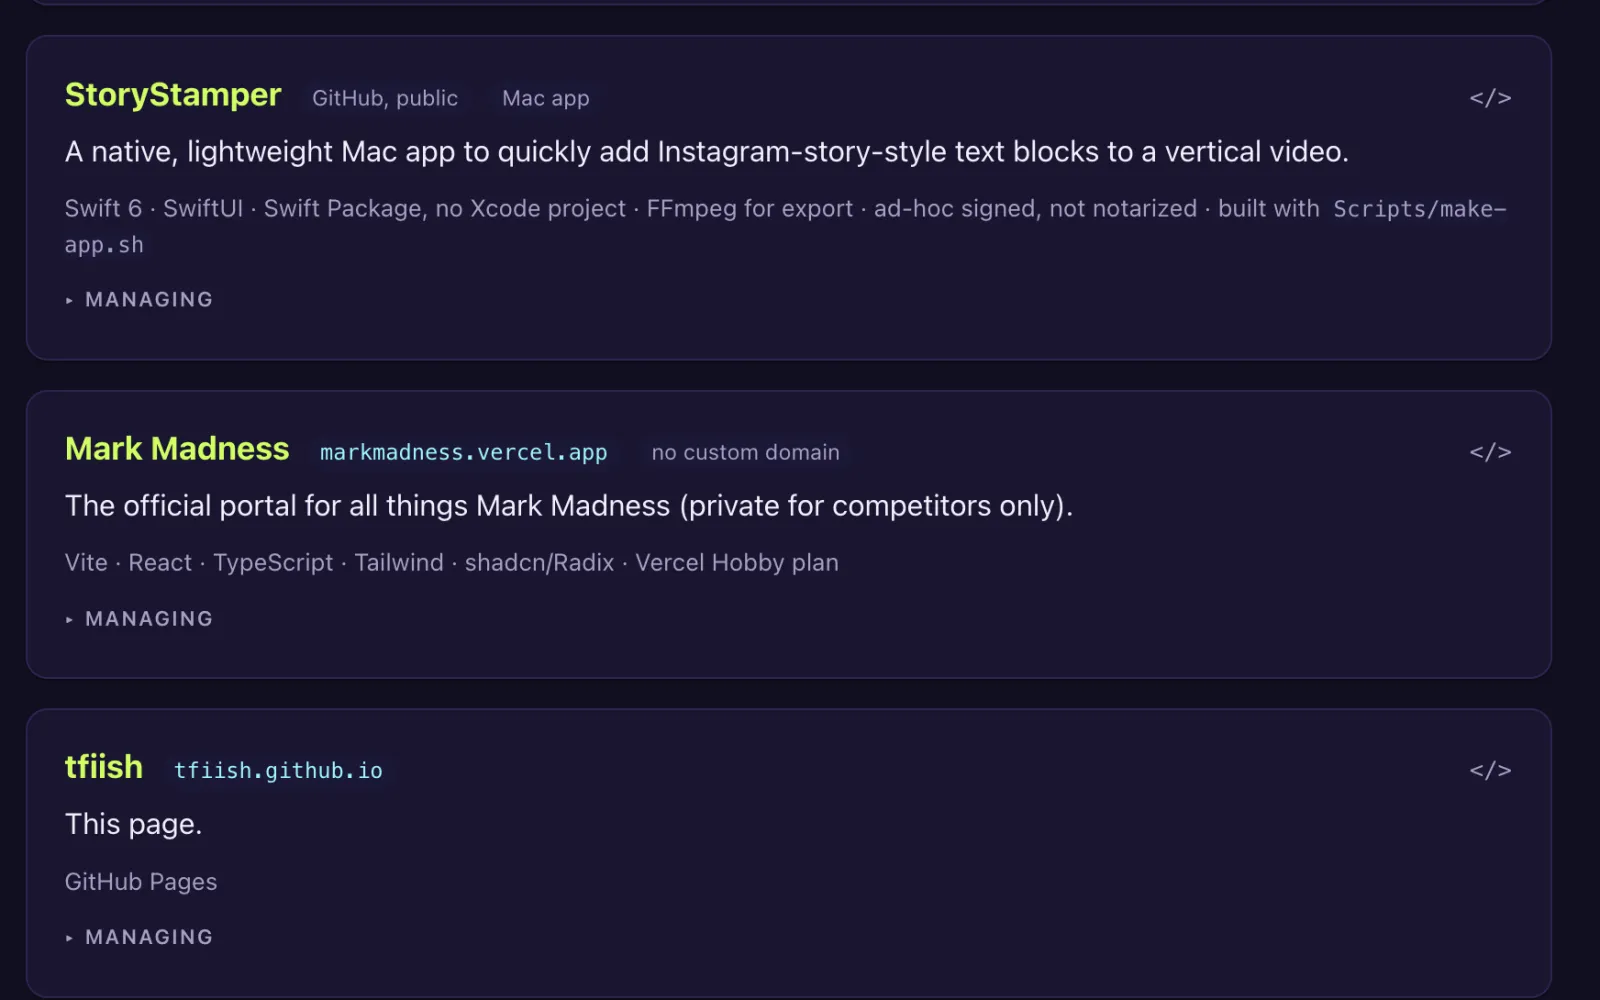
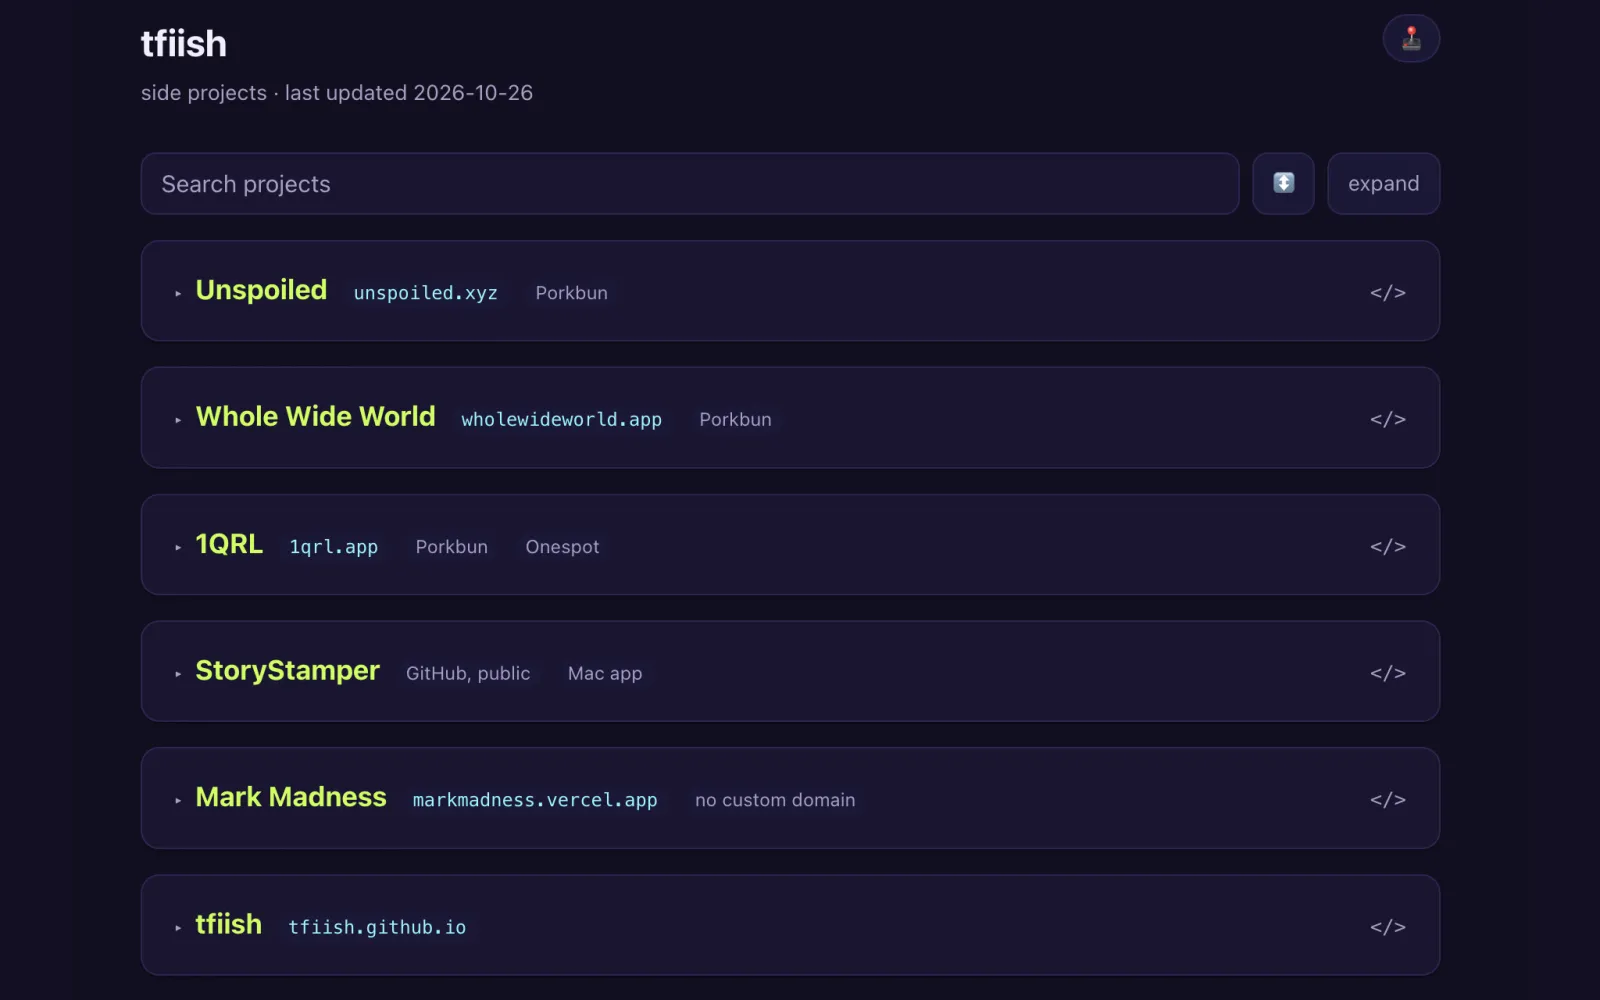
Fold all cards from the toolbar, cap screenshots at 26rem, and refresh shots for Whole Wide World, StoryStamper, and tfiish

diff --git a/index.html b/index.html
@@ -121,7 +121,7 @@
     #search:focus { outline: none; border-color: var(--accent); }
     #search::placeholder { color: var(--muted); }
     #sort,
-    #notes {
+    #expand {
       font: inherit;
       font-size: .85rem;
       color: var(--muted);
@@ -132,10 +132,10 @@
       cursor: pointer;
       white-space: nowrap;
     }
-    #sort:hover, #notes:hover { color: var(--fg); border-color: var(--accent); }
+    #sort:hover, #expand:hover { color: var(--fg); border-color: var(--accent); }
     :root[data-theme="terminal"] #search,
     :root[data-theme="terminal"] #sort,
-    :root[data-theme="terminal"] #notes { border-radius: 2px; }
+    :root[data-theme="terminal"] #expand { border-radius: 2px; }
     .empty { color: var(--muted); margin: 0 0 1rem; }
     .cards {
       display: grid;
@@ -214,9 +214,10 @@
       line-height: 1.5;
       color: var(--muted);
     }
-    /* Screenshots are 16:10; one of another shape is cropped to fit, keeping its top.
-       Two or more in a card make a carousel: the strip scrolls sideways (swipe, or a
-       trackpad), and the script below adds arrows and dots. */
+    /* Screenshots are 16:10 and at most 26rem wide; one of another shape is cropped to
+       fit, keeping its top. Two or more in a card make a carousel: the strip scrolls
+       sideways (swipe, or a trackpad), and the script below adds arrows and dots. */
+    .shots, .carousel, .dots { max-width: 26rem; }
     .shots {
       display: flex;
       overflow-x: auto;
@@ -327,7 +328,7 @@
     <div class="toolbar">
       <input id="search" type="search" placeholder="Search projects" aria-label="Search projects" autocomplete="off">
       <button id="sort" type="button" aria-label="Change sort order">&#8597;&#65039;</button>
-      <button id="notes" type="button" aria-label="Expand or collapse all managing notes">expand</button>
+      <button id="expand" type="button" aria-label="Expand or collapse all cards">collapse</button>
     </div>
     <p id="empty" class="empty" hidden>No projects match.</p>
 
@@ -379,7 +380,9 @@
         <div class="body">
           <p class="blurb">A mobile-first web app that uses spaced repetition to teach where every country, state, and province is, on a globe you can spin and zoom.</p>
           <div class="shots">
-            <img src="img/wholewideworld.webp" width="1600" height="1000" alt="Whole Wide World's home screen: the globe colored by progress, and the day's due count" loading="lazy">
+            <img src="img/wholewideworld.webp" width="1600" height="1000" alt="Whole Wide World's home screen in its light theme, with the globe and the current deck" loading="lazy">
+            <img src="img/wholewideworld-decks.webp" width="1600" height="1000" alt="Whole Wide World's Decks list, with progress and what's due" loading="lazy">
+            <img src="img/wholewideworld-locate.webp" width="1600" height="1000" alt="A Locate question in Whole Wide World, with a dotted line from a missed guess to the answer" loading="lazy">
           </div>
           <p class="stack">Vite · React · TypeScript · PWA with a service worker · all data in IndexedDB, no server · d3-geo · ts-fsrs · Cloudflare Pages, built from the <code>release</code> branch</p>
           <details class="managing">
@@ -436,7 +439,7 @@
         <div class="body">
           <p class="blurb">A native, lightweight Mac app to quickly add Instagram-story-style text blocks to a vertical video.</p>
           <div class="shots">
-            <img src="img/storystamper.webp" width="1600" height="1000" alt="StoryStamper's editor window" loading="lazy">
+            <img src="img/storystamper.webp" width="1600" height="1000" alt="StoryStamper's editor, with a video loaded and a text block on it" loading="lazy">
           </div>
           <p class="stack">Swift 6 · SwiftUI · Swift Package, no Xcode project · FFmpeg for export · ad-hoc signed, not notarized · built with <code>Scripts/make-app.sh</code></p>
           <details class="managing">
@@ -553,25 +556,20 @@
         search.select();
       });
       search.addEventListener('keydown', function (e) { if (e.key === 'Escape') search.blur(); });
-      // Expand or collapse every card's Managing notes at once. The label says what
-      // the next click does: "expand" while any notes are closed, otherwise "collapse".
-      // Expanding also opens any collapsed card, so the notes show.
-      var notesButton = document.getElementById('notes');
-      var details = Array.prototype.slice.call(document.querySelectorAll('details.managing'));
-      function syncNotes() {
-        var anyClosed = details.some(function (d) { return !d.open; });
-        notesButton.textContent = anyClosed ? 'expand' : 'collapse';
+      // Expand or collapse every card at once. The label says what the next click
+      // does: "expand" while any card is collapsed, otherwise "collapse".
+      var expandButton = document.getElementById('expand');
+      function syncExpand() {
+        var anyClosed = cards.some(function (c) { return !c.open; });
+        expandButton.textContent = anyClosed ? 'expand' : 'collapse';
       }
-      notesButton.addEventListener('click', function () {
-        var open = details.some(function (d) { return !d.open; });
-        details.forEach(function (d) {
-          d.open = open;
-          if (open) d.closest('.card').open = true;
-        });
-        syncNotes();
+      expandButton.addEventListener('click', function () {
+        var open = cards.some(function (c) { return !c.open; });
+        cards.forEach(function (c) { c.open = open; });
+        syncExpand();
       });
-      details.forEach(function (d) { d.addEventListener('toggle', syncNotes); });
-      syncNotes();
+      cards.forEach(function (c) { c.addEventListener('toggle', syncExpand); });
+      syncExpand();
 
       sortButton.addEventListener('click', function () {
         sort = SORTS[(SORTS.indexOf(sort) + 1) % SORTS.length];
